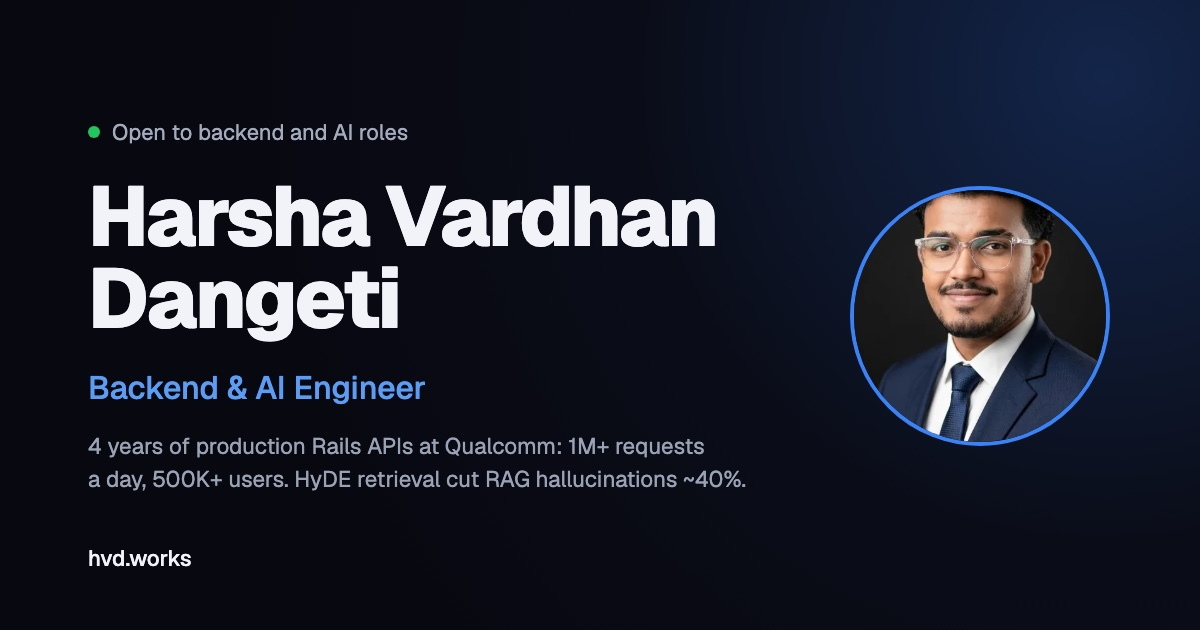
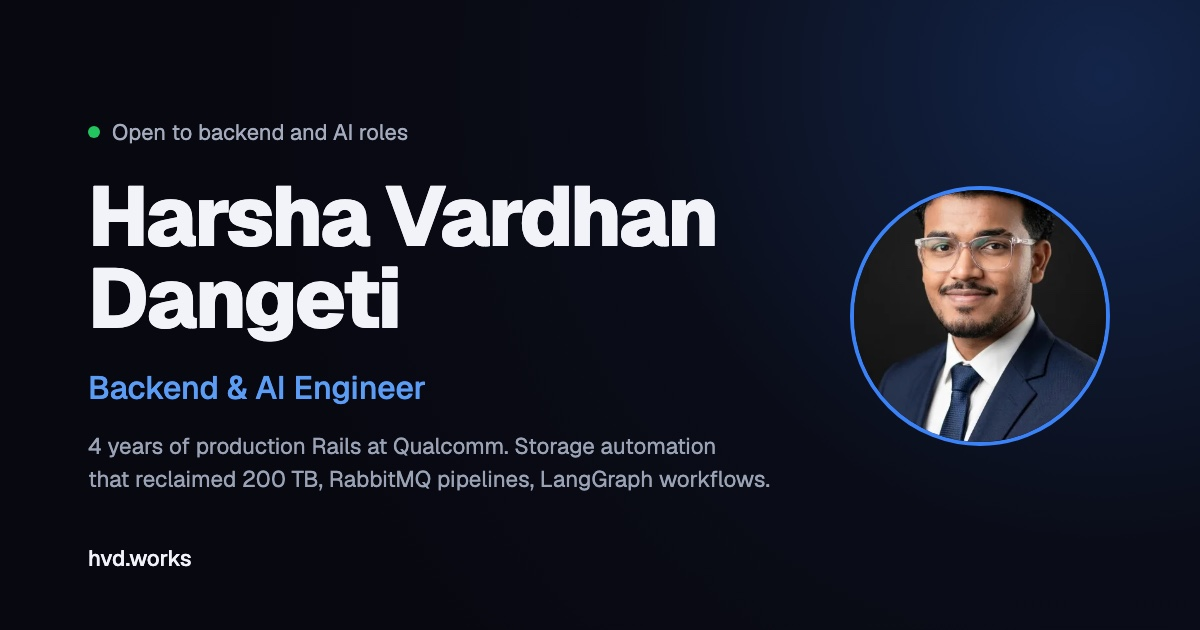
Portfolio: align work history and claims with resume
- Work history rewritten from the current resume: storage lifecycle
  (200 TB), export compliance automation, RabbitMQ status tracking and
  on-call, Rails upgrades and SD to LV migration, SlimFast, Service Manager;
  associate-era notification, LDAP provisioning and cache routing work
- Hero stats now 200 TB / 8,000+ repos / 70%; drop 1M req/day, 500K users
- Remove RAG eval ~40% claim and related talks; talks now match resume
  (QBUZZ Hackathon 2025 finalist, internal tech talks)
- Skills add Sidekiq, LangGraph, agentic workflows, Java, Jenkins;
  drop BigQuery/GCP, HyDE
- Education: B.E., CGPA 8.13, Jun 2018 to Mar 2022
- Regenerate OG image and meta descriptions

Changed region(s): [[0.0617, 0.6937, 0.6475, 0.7841]]

diff --git a/portfolio/src/data/portfolio.js b/portfolio/src/data/portfolio.js
@@ -12,7 +12,7 @@ export const personal = {
   // Set to image path (e.g. "/profile.jpg") to show your photo; null shows initials placeholder
   avatar: "/profile.webp",
   // Tags shown in the home page profile card
-  profileStack: ["Ruby on Rails", "Python", "REST APIs", "MySQL", "Redis", "RabbitMQ", "RAG", "RAGAS"],
+  profileStack: ["Ruby on Rails", "Python", "Sidekiq", "RabbitMQ", "Redis", "REST APIs", "LangGraph", "RAG"],
   linkedin: {
     url: "https://www.linkedin.com/in/harshavardhandangeti/",
     handle: "linkedin.com/in/harshavardhandangeti",
@@ -28,27 +28,27 @@ export const hero = {
   badge: "Open to backend and AI engineering roles, remote or hybrid",
   tagline: {
     bold: "4 years building production backend systems at Qualcomm.",
-    rest: " Now bringing the same backend discipline to LLM systems: RAG pipelines with measured retrieval quality, and the evaluation that catches regressions before users do.",
+    rest: " Rails services, Sidekiq and RabbitMQ pipelines, and storage automation across regional data centers. Now applying the same discipline to LLM workflows: deterministic guardrails, LLM judgment, and a human in the loop.",
   },
   stats: [
-    { value: "1M+",  label: "API requests a day on Rails services I maintain" },
-    { value: "500K+", label: "Users of the Qualcomm apps I build" },
-    { value: "~40%", label: "Fewer RAG hallucinations (HyDE)" },
+    { value: "200 TB", label: "Storage reclaimed by a lifecycle system I built" },
+    { value: "8,000+", label: "Git repos served by a GC service I rebuilt" },
+    { value: "70%",    label: "Less manual onboarding (≈40 admin hrs/month)" },
   ],
 };
 
 export const about = {
   heading: "Background",
   paragraphs: [
-    "I've spent 4 years building production Ruby on Rails APIs at Qualcomm: services handling 1M+ requests a day for 500K+ users, zero-downtime schema migrations on multi-million-row tables, RabbitMQ background jobs and Redis caching. That work gave me strong opinions about API contracts, failure handling, and what it takes to ship safely.",
-    "My AI work builds on that foundation. I built a RAGAS evaluation pipeline for an internal RAG system and used it to show that HyDE retrieval cut hallucinations on schema-sensitive queries by about 40%. I taught the method in a 45-minute internal workshop with a live demo, and my Vision2Code prototype, which turns design mockups into frontend code, was a Hot Finalist at Qualcomm's AIBUZZ competition.",
-    "I care about the gap between \"it works in the notebook\" and \"it works in production.\" Backend engineering is how you close it: clear contracts, tests, measurement and failure handling.",
+    "I've spent 4 years building production backend systems at Qualcomm: Ruby on Rails services, Sidekiq and RabbitMQ pipelines, and storage automation across regional data centers. I designed a storage lifecycle that reclaimed 200 TB, added end-to-end message tracking that ended silent message loss during broker incidents, and led Rails upgrades plus a San Diego to Las Vegas data-center migration with zero data loss. I'm on call for the services I build.",
+    "My AI work applies the same discipline. Job Radar, my daily job-triage pipeline in LangGraph, combines deterministic pre-filtering with LLM fit scoring and a human-review gate before any action is taken. At Qualcomm I've presented on AI/ML, vector databases, AWS SageMaker and agentic AI development, and I was a finalist in the QBUZZ Hackathon 2025.",
+    "I care about the gap between \"it works in the notebook\" and \"it works in production.\" Backend engineering is how you close it: clear contracts, tests, monitoring and failure handling.",
   ],
   facts: [
     { label: "Location",          value: "Gachibowli, Hyderabad, IN" },
     { label: "Current role",      value: "IT Software Developer, Qualcomm" },
     { label: "Total experience",  value: "~4.5 yrs (incl. HPE internship)" },
-    { label: "Focus area",        value: "Backend & AI engineering: Rails and Python APIs, RAG evaluation" },
+    { label: "Focus area",        value: "Backend & AI engineering: Rails and Python services, LLM workflows" },
     { label: "Status",            value: "Open to backend & AI roles · Remote/Hybrid", highlight: true },
     { label: "Outside tech",      value: "Distance running, VO₂ max tracking, meal prep, content creation" },
   ],
@@ -58,32 +58,34 @@ export const experience = [
   {
     role: "IT Software Developer",
     company: "Qualcomm",
-    dates: "2025 — Present · ~1.5 yrs",
+    dates: "Dec 2024 — Present · ~2 yrs",
     current: true,
     bullets: [
-      "Maintain and extend production Ruby on Rails APIs serving 500K+ users and 1M+ requests a day.",
-      "Led zero-downtime schema migrations on live tables of several million rows.",
-      "Built a RAGAS evaluation pipeline for an internal RAG system and used it to A/B test retrieval changes: adding HyDE cut hallucinations on schema-sensitive queries by ~40% against the baseline (RAGAS faithfulness).",
-      "Delivered 45-min RAG Evaluation workshop (live demo on production data) and AI Trends 2025–2026 presentation to an engineering org of 50+ engineers.",
+      "Designed and shipped a 3-stage automated storage lifecycle (archival, rebalancing, promotion) for ChipCode repositories across regional data centers, using scheduled Sidekiq workers to purge inactive repositories and delete expired archives. Reclaimed 200 TB of storage and cut manual cleanup effort by 80%.",
+      "Automated the Export Compliance reporting process, saving global teams 2 weeks of manual work per cycle and speeding validation for the U.S. Government's biannual compliance review.",
+      "Built end-to-end RabbitMQ message-status tracking (received, processing, completed, failed) across publisher and aggregator services for release workflows, eliminating silent message loss during broker incidents. On call for these services: built the monitoring alerts and lead incident response for 6 message types and 500+ messages a day.",
+      "Led the upgrade of 3 production services (ChipCode, RDC Git Services, Token Master) to Ruby 3.1.6 / Rails 6.1, raising unit test coverage by 15% and cutting job processing time by 20% with a Resque to Sidekiq-Cron migration. Then moved them from San Diego to Las Vegas with blue-green deployments, improving latency and reliability with zero data loss.",
+      "Modernized SlimFast, a legacy Git garbage-collection service for the LV and RDC regions: upgraded to Ruby 3.4.5 / Rails 8.1, added Swagger-documented REST APIs for bulk repack requests and status tracking, and moved execution to Sidekiq-Cron on Redis Sentinel. Reduced loose objects by 70% across 8,000+ repositories.",
+      "Improved Service Manager performance by 25% by upgrading it from Ruby 2.3 / Rails 3.2 to Ruby 3.1 / Rails 6.1 and re-architecting it with new API modules.",
     ],
-    tags: ["Ruby on Rails", "PostgreSQL", "Python", "LangChain", "RAGAS", "BigQuery"]
+    tags: ["Ruby on Rails", "Sidekiq", "RabbitMQ", "Redis", "Python", "SQL", "REST APIs", "React"],
   },
   {
     role: "Associate IT Software Developer",
     company: "Qualcomm",
-    dates: "2022 — 2025 · ~2.5 yrs",
+    dates: "Jul 2022 — Nov 2024 · ~2.5 yrs",
     current: false,
     bullets: [
-      "Shipped Rails features end to end for apps used by 500K+ people: MySQL schema design, REST API implementation and frontend integration.",
-      "Moved long-running work off the request path into RabbitMQ background jobs, and cached hot reads in Redis.",
-      "Wrote and maintained RSpec suites for the REST APIs, and containerised local development with Docker to match production.",
+      "Architected and deployed an automated email notification system that improved download and clone efficiency by 40%.",
+      "Revamped an LDAP-backed user provisioning API, cutting manual onboarding effort by 70% (about 40 admin hours a month).",
+      "Rebuilt the release cache update path, cutting cache update time by 25%, and added post-sync routing of customers to their nearest regional data center, making downloads and clones 35% faster.",
     ],
-    tags: ["Ruby on Rails", "JavaScript", "MySQL", "Redis", "RSpec", "REST APIs", "RabbitMQ", "Docker"],
+    tags: ["Ruby on Rails", "Python", "JavaScript", "Redis", "Sidekiq", "SQL", "RSpec", "CI/CD", "AWS"],
   },
   {
     role: "Technical Solution Consultant (GRSB Internship)",
     company: "Hewlett Packard Enterprise",
-    dates: "2022 · ~6 months",
+    dates: "Jan 2022 — Jul 2022 · ~6 months",
     current: false,
     bullets: [
       "Built Python and shell automation for internal workflows with cross-functional teams, cutting manual effort by about 30%.",
@@ -112,7 +114,7 @@ export const projects = [
   },
   {
     title: "Turtle Runners — Club Platform",
-    description: "Web app for a Hyderabad triathlon club: public landing page with a live countdown to the next session, member dashboard with RSVPs and training logs, and an admin console for events, members and testimonial moderation. Supabase Postgres with row-level security and Google OAuth.",
+    description: "Web app for a Hyderabad triathlon club: public landing page with a live countdown to the next session, member dashboard with RSVPs and training logs, and an admin console for events, members and testimonial moderation. Supabase Postgres with row-level security, Google OAuth, the Strava API and Google Maps.",
     github: "https://github.com/harsha-vardhan-dangeti/turtle-runners",
     demo: "https://turtlerunners.vercel.app",
     tags: ["Next.js", "TypeScript", "Tailwind CSS", "Supabase"],
@@ -122,8 +124,8 @@ export const projects = [
     imageAlt: "Turtle Runners landing page with the headline 'Swim the lake. Ride the dawn. Run it home.'",
     highlights: [
       "Member and admin roles enforced in Postgres with row-level security, not just in the UI",
-      "Admin console for events, members and testimonial moderation",
-      "Runs fully in a seeded demo mode when no Supabase keys are present",
+      "Strava REST API imports members' running, cycling and swimming activity into one dashboard",
+      "Admin console for events, members and testimonial moderation, with Google Maps for event locations",
     ],
   },
   {
@@ -142,12 +144,12 @@ export const projects = [
 
 export const education = [
   {
-    degree: "Bachelor of Technology",
+    degree: "Bachelor of Engineering (B.E.)",
     field: "Computer Science & Engineering",
     institution: "Amrita Vishwa Vidyapeetham",
     location: "Coimbatore, IN",
-    dates: "2018 — 2022",
-    grade: "CGPA: 8.1/10",          // e.g. "CGPA: 8.4 / 10" — leave empty to hide
+    dates: "Jun 2018 — Mar 2022",
+    grade: "CGPA: 8.13/10",          // e.g. "CGPA: 8.4 / 10" — leave empty to hide
     highlights: [],     // e.g. ["Relevant coursework: ...", "Final year project: ..."]
   },
 ];
@@ -156,11 +158,11 @@ export const education = [
 export const strengths = [
   {
     title: "Production backend",
-    text: "Rails APIs at Qualcomm since 2022, serving 500K+ users and 1M+ requests a day: zero-downtime migrations on multi-million-row tables, RabbitMQ background jobs, Redis caching and RSpec coverage.",
+    text: "Rails services at Qualcomm since 2022: Sidekiq and RabbitMQ pipelines, on call for 500+ messages a day, and a storage lifecycle that reclaimed 200 TB.",
   },
   {
-    title: "Measured RAG",
-    text: "A RAGAS evaluation pipeline that showed HyDE retrieval cut hallucinations by about 40%, taught to 50+ engineers in an internal workshop.",
+    title: "LLM workflows",
+    text: "Job Radar: a LangGraph triage pipeline with deterministic pre-filtering, LLM fit scoring and a human-review gate before any action.",
   },
   {
     title: "Full stack product",
@@ -178,11 +180,11 @@ export const siteBuild = {
 export const skills = [
   {
     category: "Backend",
-    items: ["Ruby on Rails", "REST APIs", "FastAPI", "PostgreSQL", "MySQL", "Redis", "RabbitMQ", "Supabase"],
+    items: ["Ruby on Rails", "Sidekiq", "RabbitMQ", "Redis", "REST APIs", "FastAPI", "MySQL", "PostgreSQL", "Supabase"],
   },
   {
     category: "AI engineering",
-    items: ["RAGAS", "HyDE", "LangChain", "RAG evaluation", "Embeddings", "Vector Search"],
+    items: ["LangGraph", "LangChain", "Agentic workflows", "RAG pipelines", "Vector databases", "RAGAS", "PyTorch"],
   },
   {
     category: "Frontend",
@@ -190,7 +192,7 @@ export const skills = [
   },
   {
     category: "Languages",
-    items: ["Python", "Ruby", "JavaScript", "SQL"],
+    items: ["Python", "Ruby", "Java", "JavaScript", "SQL"],
   },
   {
     category: "Testing",
@@ -198,7 +200,7 @@ export const skills = [
   },
   {
     category: "Cloud & tooling",
-    items: ["BigQuery", "Google Cloud", "AWS", "Docker", "Git", "GitHub Actions"],
+    items: ["AWS", "Docker", "Jenkins", "CI/CD", "Git", "Vercel"],
   },
 ];
 
@@ -260,23 +262,16 @@ export const githubStats = {
 
 export const talks = [
   {
-    title: "AIBUZZ Hot Finalist — Vision2Code",
-    meta: "Qualcomm AIBUZZ · 2025 · Hot Finalist",
-    description: "Selected as a Hot Finalist at Qualcomm's internal AIBUZZ innovation competition for Vision2Code — a system that takes Figma mockups and hand-drawn sketch diagrams as input and generates production-ready frontend code in the chosen technology stack. The pipeline interprets visual design intent, understands component hierarchy from the sketch, and outputs structured, framework-specific components ready for integration.",
+    title: "Finalist — Qualcomm QBUZZ Hackathon 2025",
+    meta: "Qualcomm · 2025 · Finalist",
+    description: "Reached the finals of QBUZZ, Qualcomm's internal hackathon, in 2025.",
     icon: "trophy",
   },
   {
-    title: "RAG Evaluation: From Theory to Production",
-    meta: "Internal Engineering Talk · 45 min · Live Demo · Audience: 50+ engineers",
-    description: "Covered RAGAS framework, G-Eval, HyDE, and custom evaluation metrics for production RAG systems. Included a live evaluation run on a production pipeline demonstrating retrieval quality measurement, hallucination detection, and regression tracking across model changes.",
+    title: "Internal tech talks on emerging technology",
+    meta: "Qualcomm · Multiple presentations",
+    description: "Presented to Qualcomm teams on AI/ML, vector databases, AWS cloud services and SageMaker, and agentic AI development, helping teams evaluate and adopt new tools.",
     icon: "edit",
-    note: "Internal talk — slides available on request.",
-  },
-  {
-    title: "AI Engineering Trends 2025–2026",
-    meta: "Internal Presentation · Engineering Org",
-    description: "Surveyed the evolving AI engineering landscape: agentic frameworks, RAG advancements, MCP protocol adoption, LLM observability tooling, and production deployment patterns. Included concrete takeaways and a framework for evaluating new AI tools before adoption.",
-    icon: "monitor",
-    note: "Internal talk — slides available on request.",
+    note: "Internal talks — slides available on request.",
   },
 ];

diff --git a/portfolio/index.html b/portfolio/index.html
@@ -4,10 +4,10 @@
     <meta charset="UTF-8" />
     <meta name="viewport" content="width=device-width, initial-scale=1.0" />
     <title>Harsha Vardhan Dangeti — Backend & AI Engineer</title>
-    <meta name="description" content="Backend and AI engineer with 4 years of production Rails at Qualcomm: APIs serving 500K+ users and 1M+ requests a day. Builds RAG systems with measured retrieval quality, and ships live web apps." />
+    <meta name="description" content="Backend and AI engineer with 4 years of production Rails at Qualcomm: Sidekiq and RabbitMQ pipelines, a storage lifecycle that reclaimed 200 TB, and LLM workflows in LangGraph." />
     <meta name="robots" content="index, follow" />
     <meta property="og:title" content="Harsha Vardhan Dangeti — Backend & AI Engineer" />
-    <meta property="og:description" content="4 years of production Rails APIs at Qualcomm (1M+ requests a day). HyDE retrieval cut RAG hallucinations ~40%, measured with RAGAS." />
+    <meta property="og:description" content="4 years of production Rails at Qualcomm. Built a storage lifecycle that reclaimed 200 TB and RabbitMQ tracking that ended silent message loss. LLM workflows in LangGraph." />
     <meta property="og:type" content="website" />
     <meta property="og:url" content="https://www.hvd.works/" />
     <meta property="og:image" content="https://www.hvd.works/og.jpg" />

diff --git a/portfolio/src/__tests__/Skills.test.jsx b/portfolio/src/__tests__/Skills.test.jsx
@@ -56,14 +56,14 @@ describe('Skills', () => {
   });
 
   it('highlights the skill inside the evidence text', async () => {
-    await userEvent.click(screen.getByRole('button', { name: 'RAGAS' }));
+    await userEvent.click(screen.getByRole('button', { name: 'Sidekiq' }));
     const marks = panel().querySelectorAll('mark');
     expect(marks.length).toBeGreaterThan(0);
-    marks.forEach(m => expect(m.textContent.toLowerCase()).toBe('ragas'));
+    marks.forEach(m => expect(m.textContent.toLowerCase()).toBe('sidekiq'));
   });
 
   it('is honest about skills with no public evidence', async () => {
-    await userEvent.click(screen.getByRole('button', { name: 'Vector Search' }));
+    await userEvent.click(screen.getByRole('button', { name: 'PyTorch' }));
     expect(within(panel()).getByText(/Not in a public project yet/)).toBeInTheDocument();
   });
 });

diff --git a/portfolio/src/components/Contact.jsx b/portfolio/src/components/Contact.jsx
@@ -19,9 +19,9 @@ export default function Contact() {
             maxWidth: '48ch',
           }}
         >
-          Open to backend and AI engineering roles: production APIs, RAG
-          systems, and the evaluation that keeps them honest. Remote or
-          hybrid.
+          Open to backend and AI engineering roles: production services,
+          message pipelines, and LLM workflows that hold up in production.
+          Remote or hybrid.
         </p>
 
         <a
